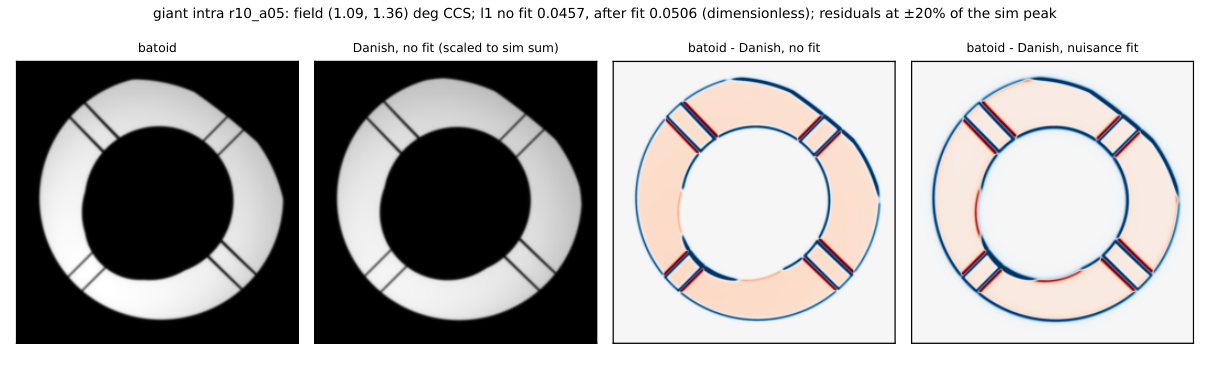
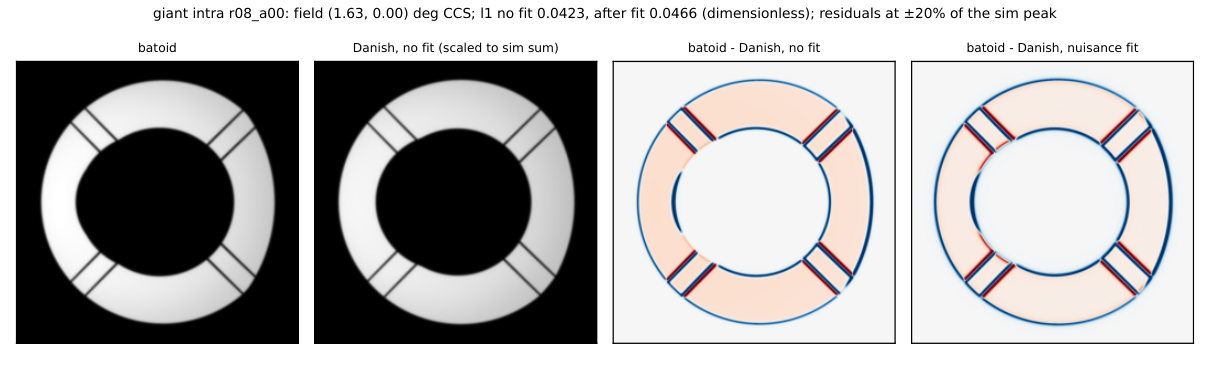
v4speed_mask_vs_batoid: pass 1 PDF: 1.725 deg limit, metric equations, e
Written by /wrap for aos/v4speed_mask_vs_batoid.

Generated with AI

diff --git a/STUDIES.md b/STUDIES.md
@@ -10,7 +10,7 @@ Every study in the repository, read from the front matter of `<topic>/<study>/st
 | [aos/aos_byvisit](aos/aos_byvisit/study.md) | active | 2026-11-09 | 2026-11-09 | For one visit, what corner Zernikes (OPD and deviation), optical state (v-modes and DOF), PID input and output, and tweak and trim did MTAOS produce, and can we reproduce the tweak? First case: 20261108 seq 468, whose large tweak should have come from seq 466, which had no recovered donuts. | Reproduced. The Tweak in effect during 20261108 seq 468 came from seq 466, which had Zernikes on only two corners (199, 203); MTAOS logged 4/4 measurements, because ts_mtaos counts non-empty tables and never checks for NaN Zernikes; its "fewer than 3" skip is only a log message, and the 2-corner solve gave camera dx -1380 um and dz -1153 um of state. With kp = 0.3 and ki = kd = 0 (dimensionless gains) the Tweak is kp times the unclipped error (camera dx -414 um); the +-100/+-500 um clip acts only on the unused integral term. The summit ts_ofc v4.8.1 and config v13 reproduce the logged PID error to 8.0e-4 relative for the seq 466 step (dimensionless; max abs difference over max abs logged). |  |
 | [aos/bending_mode_test](aos/bending_mode_test/study.md) | parked | 2026-09-18 | 2026-09-18 | In the bending-mode test blocks T377-T380, which hexapod LUT and Trim values were commanded at each corner-sensor exposure? |  |  |
 | [aos/blitz_vs_danish12](aos/blitz_vs_danish12/study.md) | done | 2026-09-22 | 2026-09-22 | Do the Danish 1.3 blitz unpaired wavefronts agree with Danish 1.2 on the same FAM and corner-sensor visits, and where do they differ? | Same convention; the DZ offsets Z7 +0.1388 and Z6 -0.1116 um of wavefront (mean offsets) come from unpairing, not from the code version. |  |
-| [aos/bounce](aos/bounce/study.md) | done | 2026-09-06 | 2026-11-04 | Do the elevation and rotator bounce tests show repeatable, gravity-driven changes in the optical state, for the look-up table? | Yes, and the default recovery puts DOF out of range: 106 of 450 per-(leg, night) rows exceed their range, against 7 under Range-Bounded Recovery, at a median cost of +0.0027 arcsec FWHM. |  |
+| [aos/bounce](aos/bounce/study.md) | done | 2026-09-06 | 2026-11-21 | Do the elevation and rotator bounce tests show repeatable, gravity-driven changes in the optical state, for the look-up table? | Yes, and the default recovery puts DOF out of range: 106 of 450 per-(leg, night) rows exceed their range, against 7 under Range-Bounded Recovery, at a median cost of +0.0027 arcsec FWHM. |  |
 | [aos/closed_loop](aos/closed_loop/study.md) | parked | 2026-09-07 | 2026-09-07 | What delivered PSF does AOS closed-loop control give over a FAM visit sequence, given the corner-sensor recovery and a proportional controller? |  |  |
 | [aos/correlations](aos/correlations/study.md) | parked | 2026-09-06 | 2026-09-23 | What do the residual Double Zernike coefficients left after the MIW is subtracted correlate with: each other, the OFC v-modes, or telescope telemetry? |  |  |
 | [aos/cwfs](aos/cwfs/study.md) | active | 2026-09-06 | 2026-10-24 | Does the optical state recovered from the corner wavefront sensors agree with the FAM full-focal-plane measurement, Zernike by Zernike? | Danish 1.3 blitz unpaired agrees well (median Pearson r 0.69-0.86 per corner sensor, dimensionless), against 0.26-0.42 for Danish 1.2 refitWcs. Z11 and Z14 still carry equal and opposite intra/extra offsets (Z14 about +0.26 um SW0, -0.26 um SW1); that split belongs to aos/intra_extra. | cwfs_tables: d12-refitWcs@20261013, d13-blitz_unpaired@20261024; fam_tables: danish_1_2@20261013, danish_1_3@20261024; miw: d12-A_50_34_i, d12-A_50_34_i_5rot; wfs_corner_compare: d12-refitWcs@20261024, d13-blitz_unpaired@20261024 |
@@ -33,7 +33,7 @@ Every study in the repository, read from the front matter of `<topic>/<study>/st
 | [aos/psf_fp_maps](aos/psf_fp_maps/study.md) | parked | 2026-09-06 | 2026-09-20 | What focal-plane PSF FWHM, ellipticity and shape does a given optical wavefront deliver, measured the way the survey measures them? |  |  |
 | [aos/unpaired_intra_vs_extra](aos/unpaired_intra_vs_extra/study.md) | active | 2026-10-15 | 2026-10-23 | Does the wavefront measured from the intra-focal donut differ from the extra-focal donut of the same FAM pair, and is that difference thermally driven as the blur difference is? | Yes to both, with a split. Z14 carries the largest difference (-0.5221 um of wavefront, 8.6x its own two-side mean) but only Z11 tracks the blur difference within a night and only Z11 responds to the pupil model. Z4 is the surprise: a modest median difference with the second-largest robust scatter over visit pairs (0.1710 um of wavefront), 25.3 per cent of which the thermal model removes. | fam_tables: danish_1_3_v1000@20261013, danish_1_3_test@20261013 |
 | [aos/v4speed_danish_closure](aos/v4speed_danish_closure/study.md) | active | 2026-11-20 | 2026-11-20 | When the donuts, the reference wavefront and the obscuration file all come from the v4_speed model, how well do Danish fits match the donuts, and how far are the fitted Zernikes from the Batoid wavefront, by defocus configuration, side and field position? |  |  |
-| [aos/v4speed_mask_vs_batoid](aos/v4speed_mask_vs_batoid/study.md) | answered | 2026-11-20 | 2026-11-21 | With the wavefront fixed at the Batoid v4_speed TA Zernikes (no fit), how well does the Danish forward model with the v4_speed obscuration file match Batoid-traced donuts, by defocus configuration (FAM, CWFS, giant), side and field position? | Danish (v4_speed obscuration, spider_angle 0 deg) at the batoid TA wavefront misplaces a median 1.8% of the flux on FAM donuts, 2.2-2.5% on CWFS and 3.3% on giant donuts, flat to 1.4 deg and up to 6-8% at the outer CWFS corners; the giant pupil edges do not match (fitted blur 1.5 arcsec at a true 1.0 arcsec). | batoid_intrinsic: v4_speed@20261121; sim_donuts: v4_speed_mono@20261120 |
+| [aos/v4speed_mask_vs_batoid](aos/v4speed_mask_vs_batoid/study.md) | answered | 2026-11-20 | 2026-11-21 | With the wavefront fixed at the Batoid v4_speed TA Zernikes (no fit), how well does the Danish forward model with the v4_speed obscuration file match Batoid-traced donuts, by defocus configuration (FAM, CWFS, giant), side and field position? | Danish (v4_speed obscuration, spider_angle 0 deg) at the batoid TA wavefront misplaces a median 1.8% of the flux on FAM donuts, 2.2-2.5% on CWFS and 3.3% on giant; within 1.725 deg the worst after a nuisance fit is 2.4% (FAM, CWFS) and 4.7% (giant). The giant pupil edges do not match (fitted blur 1.5 arcsec at a true 1.0 arcsec). | batoid_intrinsic: v4_speed@20261121; sim_donuts: v4_speed_mono@20261120 |
 | [aos/wavefront_outliers](aos/wavefront_outliers/study.md) | parked | 2026-09-22 | 2026-09-22 | Which individual donut fits are catastrophically bad, and what per-donut cut flags them? | A robust z-score above 20 (dimensionless) against the per-CCD median flags 1.535e-02 of donuts on danish_1_3_test; which threshold to adopt, and whether it belongs in the fam_tables build, is a product decision. |  |
 | [aos/wfs_mimic](aos/wfs_mimic/study.md) | parked | 2026-06-24 | 2026-09-20 | What corner-to-corner covariance of the measured-intrinsic deviation would the four corner sensors see, mimicked from FAM donuts at the corner radius? | A covariance product only (84 by 84 cross-corner, 21 by 21 single-corner); no conclusion of its own. |  |
 | [astrometry/astrometry_residual_field](astrometry/astrometry_residual_field/study.md) | parked | 2026-08-13 | 2026-08-14 | Does the per-visit astrometric residual field (single-frame WCS minus Gaia, before the turbulence correction) carry a coherent atmospheric pattern, and how does it compare with the PSF ellipticity field of the same visit? |  |  |

diff --git a/aos/v4speed_mask_vs_batoid/study.md b/aos/v4speed_mask_vs_batoid/study.md
@@ -3,7 +3,7 @@ study: v4speed_mask_vs_batoid
 topic: aos
 status: answered
 question: With the wavefront fixed at the Batoid v4_speed TA Zernikes (no fit), how well does the Danish forward model with the v4_speed obscuration file match Batoid-traced donuts, by defocus configuration (FAM, CWFS, giant), side and field position?
-answer: Danish (v4_speed obscuration, spider_angle 0 deg) at the batoid TA wavefront misplaces a median 1.8% of the flux on FAM donuts, 2.2-2.5% on CWFS and 3.3% on giant donuts, flat to 1.4 deg and up to 6-8% at the outer CWFS corners; the giant pupil edges do not match (fitted blur 1.5 arcsec at a true 1.0 arcsec).
+answer: Danish (v4_speed obscuration, spider_angle 0 deg) at the batoid TA wavefront misplaces a median 1.8% of the flux on FAM donuts, 2.2-2.5% on CWFS and 3.3% on giant; within 1.725 deg the worst after a nuisance fit is 2.4% (FAM, CWFS) and 4.7% (giant). The giant pupil edges do not match (fitted blur 1.5 arcsec at a true 1.0 arcsec).
 uses:
   batoid_intrinsic: v4_speed@20261121
   sim_donuts: v4_speed_mono@20261120
@@ -21,10 +21,33 @@ With the wavefront fixed at the Batoid v4_speed TA Zernikes (no fit), how well d
 At the batoid TA wavefront, with no wavefront fit, Danish with the v4_speed obscuration
 file misplaces a median 1.8% of the flux on FAM donuts, 2.2-2.5% on CWFS and 3.3% on
 giant donuts (l1, dimensionless; spider_angle 0 deg). It is flat to 1.4 deg field
-radius, then rises to 6-8% at the outer CWFS corners. The giant-donut pupil edges do not
-match: a nuisance fit inflates the blur to 1.5 arcsec against a true 1.0 arcsec.
+radius, then rises; within the 1.725 deg limit the worst after a nuisance fit is 2.4%
+(FAM, CWFS) and 4.7% (giant), and the 6-8% CWFS corners all lie beyond it. The
+giant-donut pupil edges do not match: the fit inflates the blur to 1.5 arcsec against a
+true 1.0 arcsec.
 
 ## Log
+
+### 2026-11-21 — pass 1 PDF: 1.725 deg limit, metric equations, edge examples
+
+PDF of `20261121_ta_model` rewritten in place (code `30a9643`): metric equations
+on page 1, a dashed line at the 1.725 deg field-radius limit on page 2, and example
+donuts near the edge: FAM and giant 4 per side from 1.4 to 1.725 deg, CWFS 3 per side
+from its innermost point to 1.725 deg. Numbers unchanged.
+
+Within 1.725 deg, the largest l1 after the nuisance fit (fraction of flux misplaced,
+dimensionless) is 0.023 (FAM extra), 0.024 (FAM intra, CWFS intra), 0.023 (CWFS extra),
+0.045 (giant extra) and 0.047 (giant intra). The CWFS 0.060-0.078 stamps are all at
+1.77-1.82 deg, outside it.
+
+Blur and wavelength, checked in the code: both images use a galsim Kolmogorov of fixed
+FWHM with no wavelength scaling. The sims convolve it without the pixel on a 3x
+oversampled deposit and sum to 10 µm pixels; Danish draws it with galsim's default
+pixel convolution (`donut_model.py:282`). The sims trace at 619.4 nm, which enters
+through the glass indices, and the TA reference is batoid at 619.4 nm; Danish's model is
+geometric given Zernikes in m, with no wavelength of its own (`bandpass_filter` None).
+
+[Agreement against field radius](figures/field_radius.png) (replaced).
 
 ### 2026-11-21 — pass 1: Danish at the TA wavefront against the sims
 
